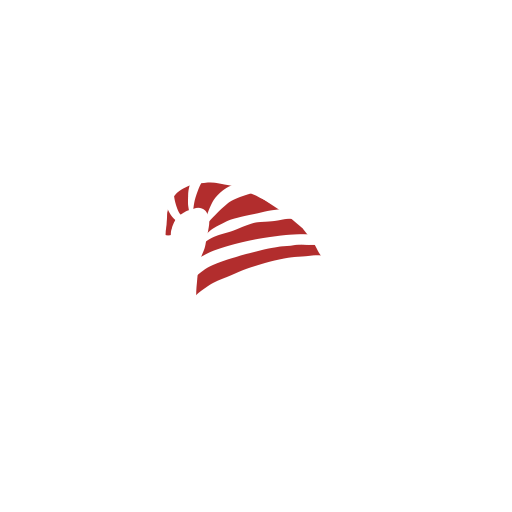
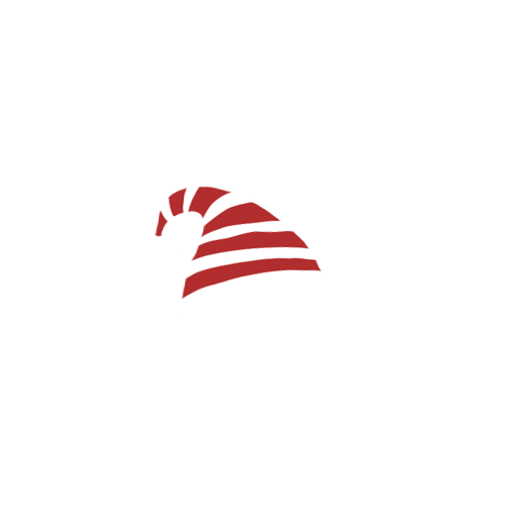
fix hats

Changed region(s): [[0.2812, 0.3438, 0.625, 0.5938]]

diff --git a/yp.js b/yp.js
@@ -31,6 +31,7 @@ var g = hexi(SCREEN_W, SCREEN_H, setup, [
   'data/hat1.png',
   'data/hat2.png',
   'data/hat3.png',
+  'data/hat4.png',
   'data/cat_0000_sit.png',
   'data/cat_0001_run1.png',
   'data/cat_0002_run2.png',
@@ -640,10 +641,12 @@ class Human {
     if (this.id == FRENCH_ID) {
       this.hat_sprite = g.sprite('data/hat3.png', 512, 512);
     } else {
-      if (Math.random() > 0.5) {
+      if (Math.random() > 0.666) {
         this.hat_sprite = g.sprite('data/hat1.png', 512, 512);
-      } else {
+      } else if (Math.random() > 0.333) {
         this.hat_sprite = g.sprite('data/hat2.png', 512, 512);
+      } else {
+        this.hat_sprite = g.sprite('data/hat4.png', 512, 512);
       }
     }
     this.hat_sprite.anchor.set(0.5, 0.5);
